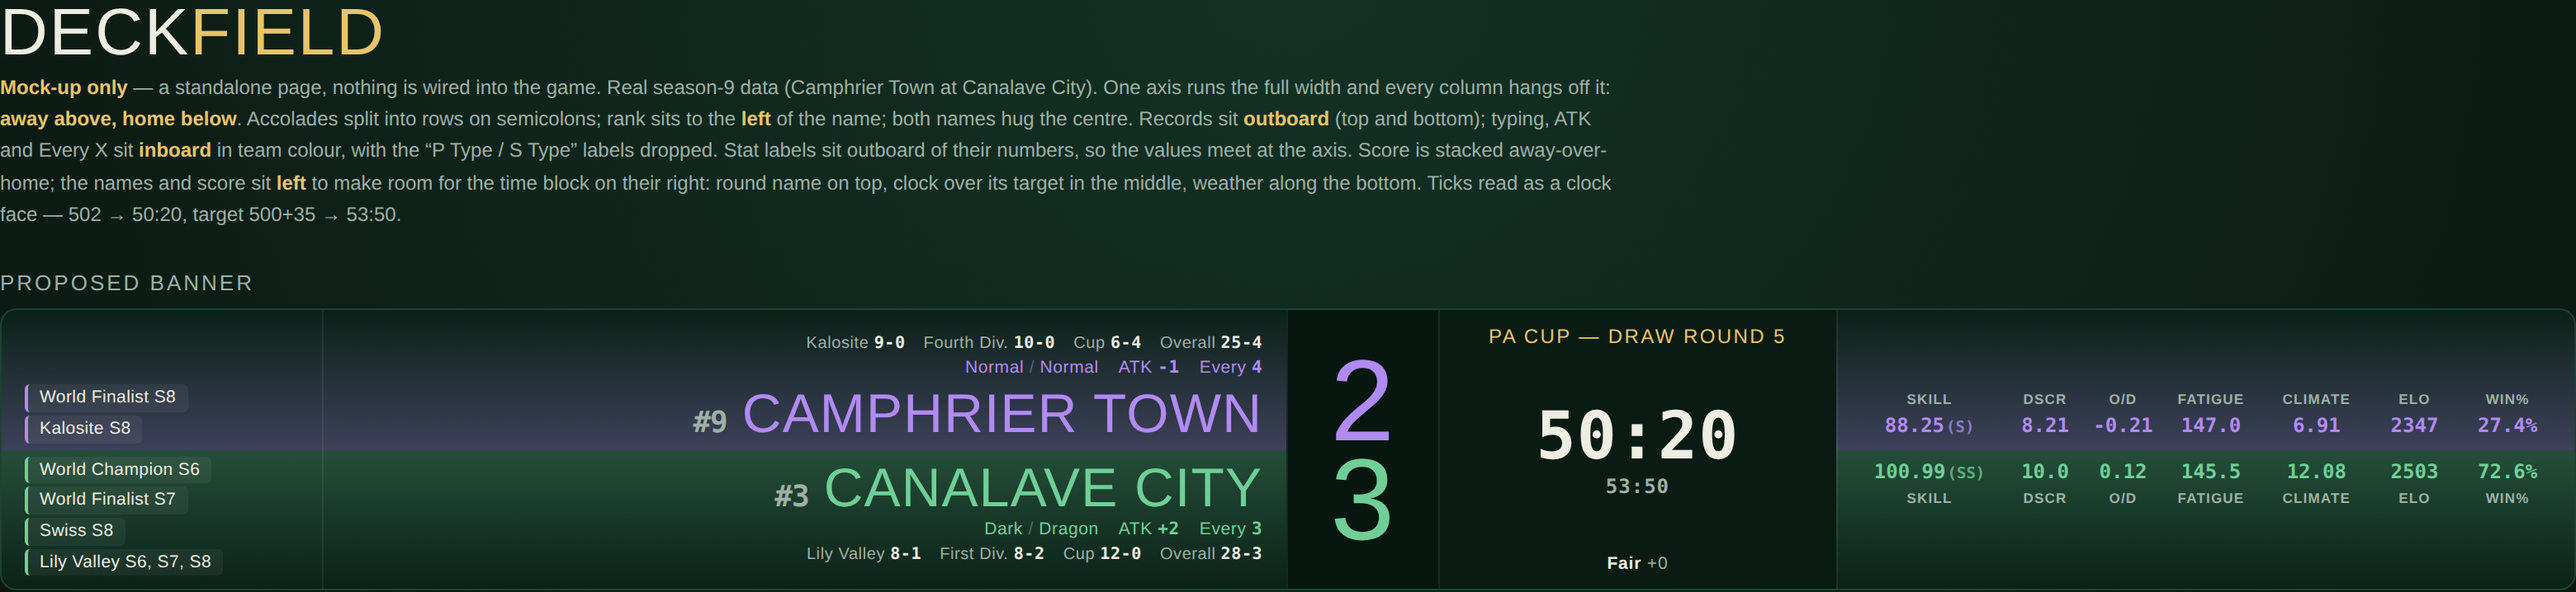
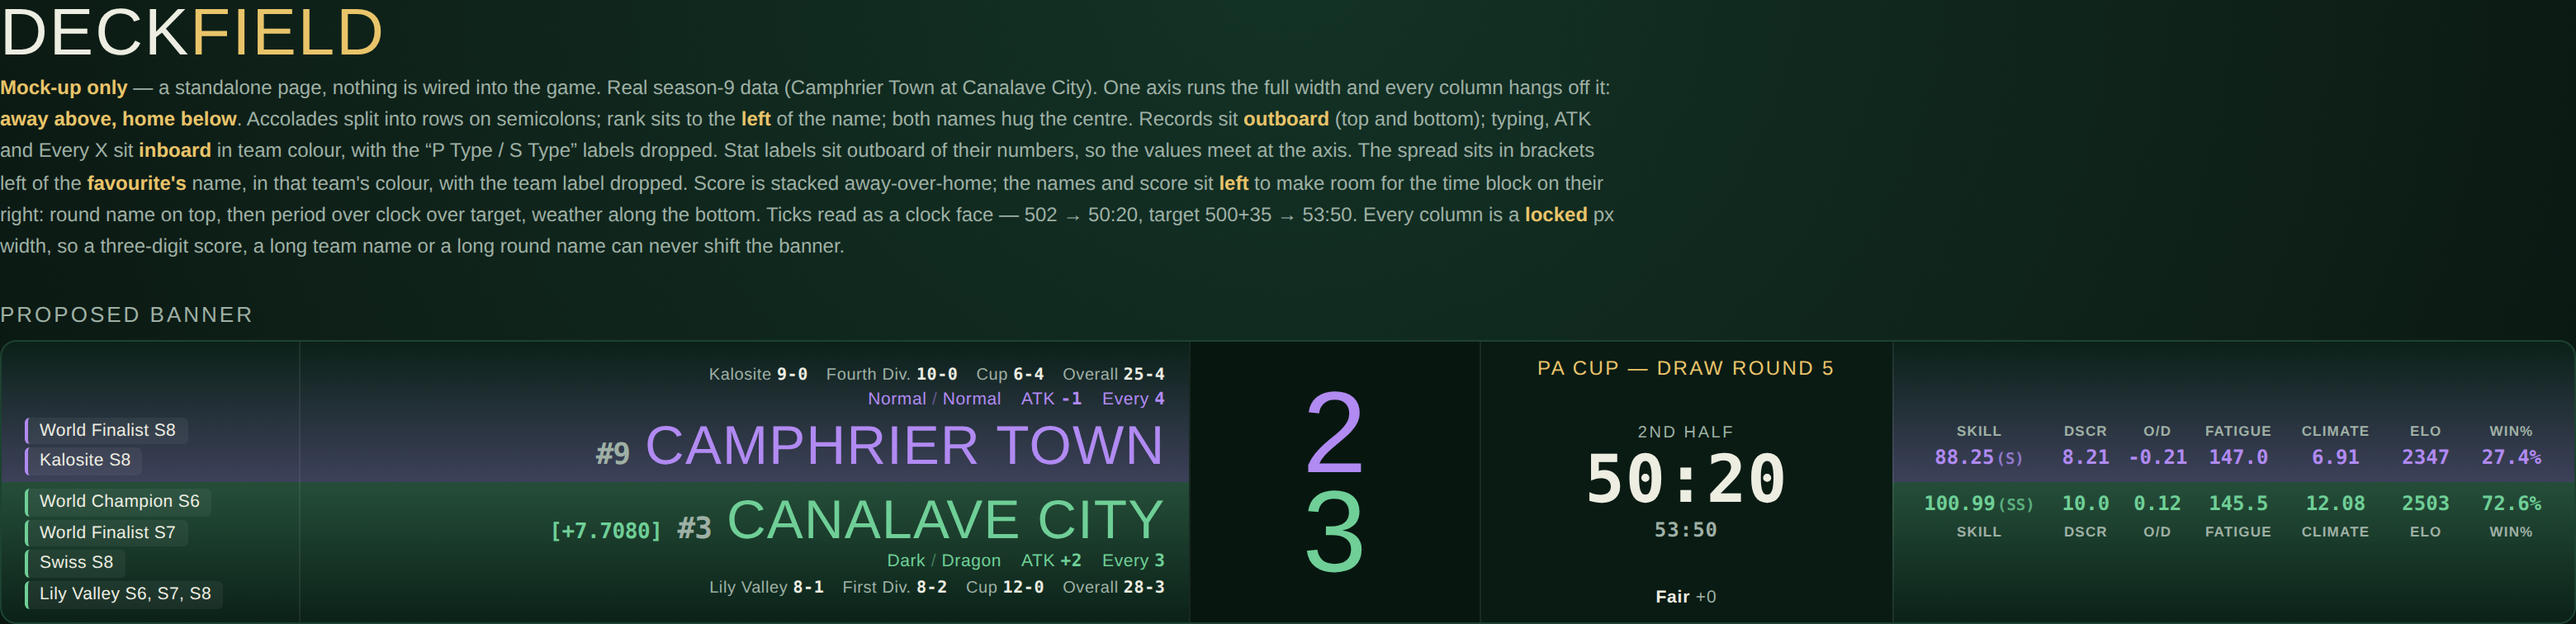
Scoreboard mock-up: lock the columns, add period and spread
- Every column is now a fixed px width and the banner itself is a fixed 1560px
  that scrolls rather than reflowing. The score and time tracks were the only
  content-sized ones left, so they were the only two that could move anything:
  three digits at the maximum score size measures 117px against a 40px content
  box, which would have overflowed badly and shifted the banner. Score is
  locked at 176px, time at 250px, and the score digits use tabular-nums so 111
  and 888 measure the same.
- Period sits over the clock, carrying the game's own periodLabel() values.
- The spread sits in brackets left of the favourite's name, in that team's
  colour. The team name the old scoreboard printed beside it is dropped --
  which side it is on says it.

Long round names and long team names now ellipsis rather than push, which is
what lets the locked tracks hold.

Verified in a browser: column geometry is byte-identical across scores 0-0,
88-7, 100-188 and 888-999, a 47-character round name, a 26-character team
name, and viewports from 800px to 1920px; no value clipped or truncated at
any width; no page errors.

Claude-Session: https://claude.ai/code/session_0181zYP8HyHr8A6FaG9fZGxz

diff --git a/scoreboard_mockup.html b/scoreboard_mockup.html
@@ -45,7 +45,7 @@
      ====================================================================== */
   .banner{
     display:grid;
-    grid-template-columns:minmax(150px,0.5fr) minmax(270px,1.5fr) auto auto minmax(330px,1.15fr);
+    grid-template-columns:minmax(150px,0.5fr) minmax(270px,1.5fr) 176px 250px minmax(330px,1.15fr);
     grid-template-rows:1fr auto 1fr;
     background:var(--panel);
     border:1px solid var(--panel-line);
@@ -103,6 +103,15 @@
   .cell.home .id-mid{color:var(--home-bright);}
   .id-mid .sep{opacity:0.45;}
   .id-name{display:flex;align-items:baseline;justify-content:flex-end;gap:9px;margin:2px 0;}
+  /* Only the favoured side carries it, so which team it belongs to is obvious
+     from the row it sits on -- the team name the old scoreboard printed
+     alongside it is dropped. */
+  .id-spread{
+    font-family:'JetBrains Mono',monospace;font-weight:600;font-size:13px;
+    letter-spacing:-0.2px;flex:0 0 auto;
+  }
+  .cell.away .id-spread{color:var(--away-bright);}
+  .cell.home .id-spread{color:var(--home-bright);}
   .id-rank{
     font-family:'JetBrains Mono',monospace;font-weight:700;font-size:18px;
     color:var(--chalk-dim);letter-spacing:-0.5px;flex:0 0 auto;
@@ -127,6 +136,8 @@
   .score-num{
     font-family:'Anton',sans-serif;line-height:0.86;
     font-size:clamp(46px,4.8vw,70px);
+    font-variant-numeric:tabular-nums;   /* 1 and 8 measure the same */
+    white-space:nowrap;
   }
   .score-cell.away .score-num{color:var(--away-bright);}
   .score-cell.home .score-num{color:var(--home-bright);}
@@ -142,9 +153,14 @@
   }
   .tb-round{
     font-family:'Anton',sans-serif;text-transform:uppercase;letter-spacing:1.2px;
-    font-size:12px;color:var(--gold);white-space:nowrap;
+    font-size:12px;color:var(--gold);
+    white-space:nowrap;overflow:hidden;text-overflow:ellipsis;max-width:100%;
   }
-  .tb-clockwrap{display:flex;flex-direction:column;align-items:center;}
+  .tb-clockwrap{display:flex;flex-direction:column;align-items:center;max-width:100%;}
+  .tb-period{
+    font-size:10px;text-transform:uppercase;letter-spacing:1.3px;
+    color:var(--chalk-dim);margin-bottom:3px;white-space:nowrap;
+  }
   .tb-clock{
     font-family:'JetBrains Mono',monospace;font-weight:700;
     font-size:clamp(28px,2.8vw,40px);line-height:1;color:var(--chalk);
@@ -188,7 +204,7 @@
      rather than reflowing -- a mock-up shouldn't invent responsive behaviour
      that hasn't been asked for, and a seven-across stat strip has a real floor. */
   .banner-scroll{overflow-x:auto;}
-  .banner{min-width:1460px;}
+  .banner{width:1560px;}
 </style>
 </head>
 <body>
@@ -201,10 +217,12 @@
     <b>left</b> of the name; both names hug the centre. Records sit <b>outboard</b> (top and bottom);
     typing, ATK and Every X sit <b>inboard</b> in team colour, with the &ldquo;P Type / S Type&rdquo;
     labels dropped. Stat labels sit outboard of their numbers, so the values meet at the axis.
-    Score is stacked away-over-home; the names and score sit
-    <b>left</b> to make room for the time block on their right: round name on top, clock over its target in the middle, weather along
-    the bottom. Ticks read as a clock face &mdash; 502 &rarr; 50:20, target
-    500+35 &rarr; 53:50.
+    The spread sits in brackets left of the <b>favourite's</b> name, in that team's
+    colour, with the team label dropped. Score is stacked away-over-home; the names and score sit
+    <b>left</b> to make room for the time block on their right: round name on top, then period over
+    clock over target, weather along the bottom. Ticks read as a clock face &mdash; 502 &rarr;
+    50:20, target 500+35 &rarr; 53:50. Every column is a <b>locked</b> px width, so a three-digit
+    score, a long team name or a long round name can never shift the banner.
   </p>
 
   <div class="section-label">Proposed banner</div>
@@ -218,7 +236,7 @@
     <div class="cell away colsep c2 r1">
       <div class="id-meta" id="metaAway"></div>
       <div class="id-mid" id="midAway"></div>
-      <div class="id-name"><span class="id-rank" id="rankAway"></span><span class="id-team" id="nameAway"></span></div>
+      <div class="id-name"><span class="id-spread" id="spreadAway"></span><span class="id-rank" id="rankAway"></span><span class="id-team" id="nameAway"></span></div>
     </div>
     <!-- 3 ─ SCORE, away half -->
     <div class="score-cell away colsep r1"><div class="score-num" id="scoreAway">2</div></div>
@@ -226,6 +244,7 @@
     <div class="time-cell colsep">
       <div class="tb-round" id="roundName"></div>
       <div class="tb-clockwrap">
+        <div class="tb-period" id="period"></div>
         <div class="tb-clock" id="clock"></div>
         <div class="tb-target" id="clockTarget"></div>
       </div>
@@ -247,7 +266,7 @@
     <div class="cell home c1 r3"><div class="acc-list" id="accHome"></div></div>
     <!-- 2 ─ RECORDS + NAME -->
     <div class="cell home colsep c2 r3">
-      <div class="id-name"><span class="id-rank" id="rankHome"></span><span class="id-team" id="nameHome"></span></div>
+      <div class="id-name"><span class="id-spread" id="spreadHome"></span><span class="id-rank" id="rankHome"></span><span class="id-team" id="nameHome"></span></div>
       <div class="id-mid" id="midHome"></div>
       <div class="id-meta" id="metaHome"></div>
     </div>
@@ -287,11 +306,14 @@
   // periodBase + periodTarget + stoppageAccrued.
   const MATCH = {
     roundName:'PA Cup \u2014 Draw Round 5',
+    period:'2nd Half',    // periodLabel(n): 1st Half / 2nd Half / Overtime 1, 2, ...
     clock:502,            // game.clock
     periodBase:250,       // 2nd half
     periodTarget:250,     // so the period ends at 500
     stoppage:35,          // game.stoppageAccrued
     weather:'Fair', weatherDelta:0,
+    // SPREAD_TEAM / SPREAD_VALUE.toFixed(SPREAD_DECIMALS)
+    spreadTeam:'home', spreadValue:'7.7080',
   };
 
   // Ticks read as a clock face: append a 0, pad to four digits, colon before
@@ -347,6 +369,7 @@
   document.getElementById('statsKeyHome').innerHTML = keyRow;
 
   document.getElementById('roundName').textContent = MATCH.roundName;
+  document.getElementById('period').textContent = MATCH.period;
   document.getElementById('clock').textContent = clockFace(MATCH.clock);
   document.getElementById('clockTarget').textContent =
     clockFace(MATCH.periodBase + MATCH.periodTarget + MATCH.stoppage);
@@ -359,6 +382,12 @@
   renderMeta('metaHome', HOME);
   renderMid('midAway', AWAY);
   renderMid('midHome', HOME);
+  // Favourite only: the empty side keeps the element so the rows stay aligned.
+  document.getElementById('spreadAway').textContent =
+    MATCH.spreadTeam === 'away' ? `[+${MATCH.spreadValue}]` : '';
+  document.getElementById('spreadHome').textContent =
+    MATCH.spreadTeam === 'home' ? `[+${MATCH.spreadValue}]` : '';
+
   document.getElementById('rankAway').textContent = '#' + AWAY.rank;
   document.getElementById('rankHome').textContent = '#' + HOME.rank;
   document.getElementById('nameAway').textContent = AWAY.name;
